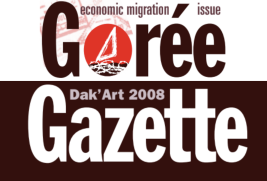
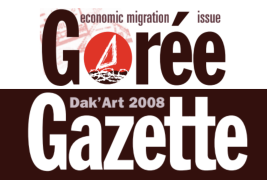
content updates

diff --git a/static/style.css b/static/style.css
@@ -258,6 +258,28 @@ menu .list-project a {
     border-right: 1px solid rgba(255, 255, 255, 0.3);
 }
 
+.project-box__overlay--grid {
+    display: grid;
+    grid-template-columns: 1fr 1fr;
+    grid-template-rows: 1fr 1fr;
+    flex-direction: initial;
+}
+
+.project-box__overlay--grid .project-box__lang {
+    flex: initial;
+    border-right: none;
+}
+
+.project-box__overlay--grid .project-box__lang:nth-child(1),
+.project-box__overlay--grid .project-box__lang:nth-child(3) {
+    border-right: 1px solid rgba(255, 255, 255, 0.3);
+}
+
+.project-box__overlay--grid .project-box__lang:nth-child(1),
+.project-box__overlay--grid .project-box__lang:nth-child(2) {
+    border-bottom: 1px solid rgba(255, 255, 255, 0.3);
+}
+
 .content ol li {
     margin-bottom: .5em;
 }

diff --git a/layouts/projects/term.html b/layouts/projects/term.html
@@ -15,8 +15,9 @@
         {{ range sort $filtered "Params.order" "asc" }}
             {{ $pageURL := .Permalink }}
             {{ if .Params.translations }}
+                    {{ $isGrid := eq (len .Params.translations) 4 }}
                     <div class="project-box project-box--multilingual" style="background-image: url('{{ .Params.image.src }}');" title="{{ .Title }}">
-                        <div class="project-box__overlay">
+                        <div class="project-box__overlay{{ if $isGrid }} project-box__overlay--grid{{ end }}">
                             {{ range .Params.translations }}
                             <a class="project-box__lang" href="{{ .url }}" target="_blank" rel="noopener noreferrer">
                                 {{ .lang }}

diff --git a/layouts/partials/menu.html b/layouts/partials/menu.html
@@ -9,7 +9,7 @@
         </div>
         <div class="list-summary">
             {{ with .Site.GetPage "/posts" }}
-                {{ range sort (where (where .Pages ".Params.private" "!=" true) ".Params.home-sidebar" true) "Date" "desc" }}
+                {{ range sort (where (where .Pages ".Params.private" "!=" true) ".Params.home-sidebar" true) "Params.order" "asc" }}
                     <div class="post">
                         {{- partial "post-link.html" . -}}
                     </div>

diff --git a/content/posts/lanchonete/22-bamako-san-juan.md b/content/posts/lanchonete/22-bamako-san-juan.md
@@ -1,0 +1,16 @@
+---
+title: 2015 Bamako Encounters + San Juan Poly/Graphic Triennial
+order: 22
+image:
+  src: /uploads/lanch-22-bamako-zine-thumb.png
+translations:
+  - lang: web
+    url: https://lanchonete.tllester.info/pdfs/bamako-sanjuan-zine-poster-webversion.pdf
+  - lang: e-flux
+    url: https://www.e-flux.com/announcements/28802/exhibitions-and-programme-announced
+  - lang: Bamako
+    url: https://lanchonete.tllester.info/pdfs/lanch-22-bamako-zine.pdf
+  - lang: C&
+    url: https://contemporaryand.com/en/america-latina-magazine/texts/the-zimbabwean-visual-artist-lucia-nhamo
+---
+

diff --git a/content/posts/lanchonete/25-escola-da-cidade.md b/content/posts/lanchonete/25-escola-da-cidade.md
@@ -1,0 +1,13 @@
+---
+title: Collaborations w/ Escola da Cidade
+order: 25
+image:
+  src: /uploads/lanch-25-escola-thumb.png
+translations:
+  - lang: seminar
+    url: https://lanchonete.tllester.info/pdfs/escola-seminar.pdf
+  - lang: course
+    url: https://lanchonete.tllester.info/pdfs/escola-course.pdf
+---
+
+

diff --git a/content/posts/freedimensional/17-host-an-occupier.md b/content/posts/freedimensional/17-host-an-occupier.md
@@ -1,0 +1,12 @@
+---
+title: Host an Occupier / Occupy Wall Street
+order: 17
+image:
+  src: /uploads/FD-17-ows-hosting.png
+external_url: https://unstitute.wordpress.com/wp-content/uploads/2012/03/ows_hosting-septweekend1.pdf
+translations:
+  - lang: video
+    url: https://vimeo.com/42235219
+  - lang: guide
+    url: https://unstitute.wordpress.com/wp-content/uploads/2012/03/ows_hosting-septweekend1.pdf
+---

diff --git a/content/posts/freedimensional/18-magnolia-tree.md b/content/posts/freedimensional/18-magnolia-tree.md
@@ -1,0 +1,12 @@
+---
+title: Center for Art in Community @ Magnolia Tree
+order: 18
+image:
+  src: /uploads/FD-18-magnolia-tree.jpg
+external_url: https://fd.tllester.info/pdfs/brooklynartscouncil.pdf
+translations:
+  - lang: BAC
+    url: https://fd.tllester.info/pdfs/brooklynartscouncil.pdf
+  - lang: NYFA
+    url: https://fd.fd.tllester.info/pdfs/nyfa.pdf
+---

diff --git a/content/posts/skoll-world-forum.md b/content/posts/skoll-world-forum.md
@@ -1,0 +1,11 @@
+---
+title: Skoll World Forum article
+date: 2025-10-23T06:00:00.000Z
+home-sidebar: true
+order: 9
+file:
+  src: /uploads/skoll-world-forum.pdf
+  label: PDF
+image:
+  src: /uploads/skoll-world-forum-thumb.png
+---

diff --git a/content/posts/farm-school/Mirante-XiqueXique.md b/content/posts/farm-school/Mirante-XiqueXique.md
@@ -1,0 +1,10 @@
+---
+title: Mirante XiqueXique
+order: 6
+file:
+  src: https://mirantexiquexique.org/todd/
+image:
+  src: /uploads/mirante-xique-xique-thumb.png
+---
+
+TODO: image + link pending. Spec lists only title.

diff --git a/content/posts/farm-school/guapamacataro.md b/content/posts/farm-school/guapamacataro.md
@@ -1,0 +1,10 @@
+---
+title: Guapamacataro
+order: 5
+file:
+  src: https://guapamacataro.org/team/
+image:
+  src: /uploads/guapamacataro-thumb.png
+---
+
+TODO: image + link pending. Spec lists only title.

diff --git a/content/posts/farm-school/partage.md b/content/posts/farm-school/partage.md
@@ -1,0 +1,10 @@
+---
+title: Partage
+order: 7
+file:
+  src: 
+image:
+  src: /uploads/partage-thumb.png
+---
+
+TODO: image + link pending. Spec lists only title.

diff --git a/content/posts/coagular-e-dissolver.md b/content/posts/coagular-e-dissolver.md
@@ -1,0 +1,9 @@
+---
+title: COAGULAR E DISSOLVER
+date: 2025-11-01T06:00:00.000Z
+home-sidebar: true
+order: 1
+draft: true
+---
+
+TODO: link/file pending — discussed in previous meeting.